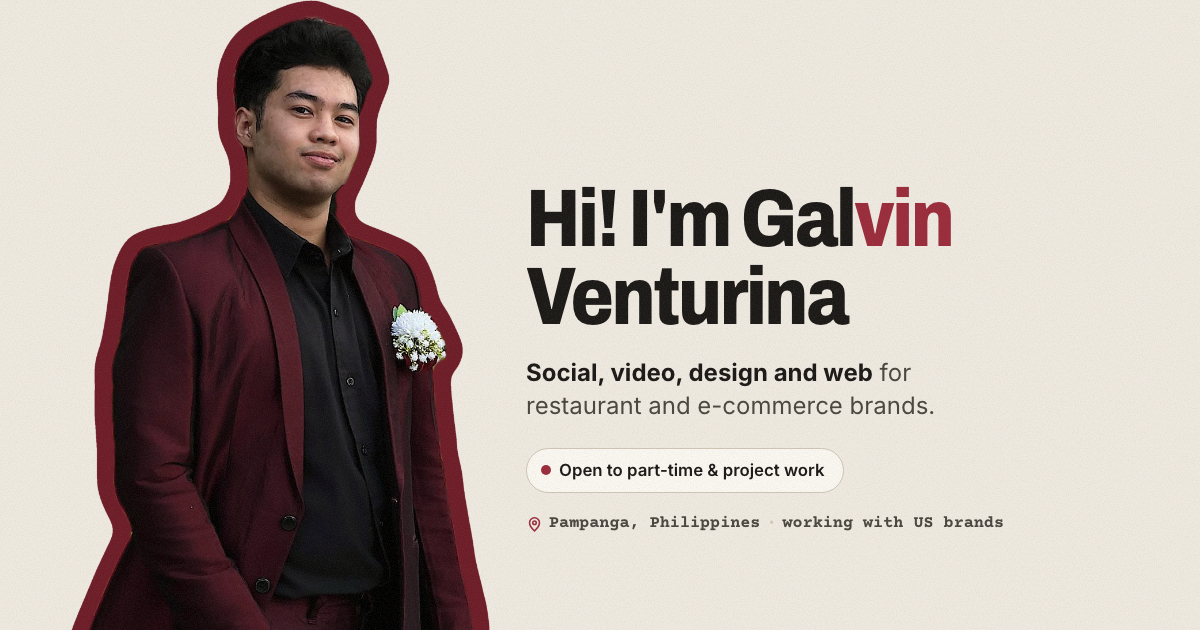
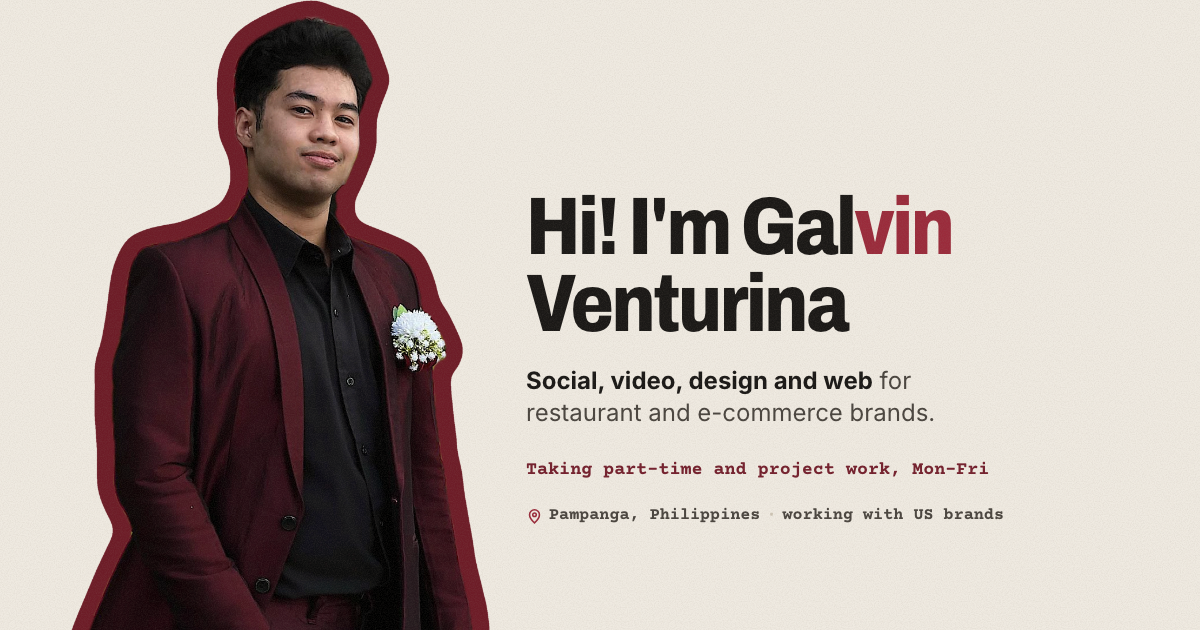
Drop the G tile, status pill and handwriting font
The header is now a plain masthead: name plus a typed
"Social · Video · Design · Web" line. Availability moves out of the
pulsing pill into a typed line under the location. Captions, notes,
the index card, badge and postcard use the typewriter and display
faces instead of Caveat. Favicon is a crop of the portrait, and the
link preview image is re-rendered to match.

diff --git a/styles.css b/styles.css
@@ -3,7 +3,7 @@
    Scrapbook look: warm paper, ink-black type, wine accent
    pulled from the burgundy suit in the portrait.
    Type: Archivo (display), Inter (body),
-   Courier Prime (typewriter labels), Caveat (handwritten notes).
+   Courier Prime (typewriter labels and captions).
    ========================================================== */
 
 :root {
@@ -25,7 +25,6 @@
   --f-display: "Archivo", "Arial Narrow", system-ui, sans-serif;
   --f-body: "Inter", system-ui, -apple-system, "Segoe UI", sans-serif;
   --f-type: "Courier Prime", "Courier New", ui-monospace, monospace;
-  --f-hand: "Caveat", "Bradley Hand", cursive;
 
   --wrap: 1200px;
   --gutter: clamp(16px, 4vw, 40px);
@@ -98,7 +97,8 @@ strong { font-weight: 700; color: var(--ink); }
   box-shadow: 1px 3px 3px rgba(30, 10, 10, .35);
 }
 
-.scribble { font-family: var(--f-hand); font-weight: 700; color: var(--wine-bright); line-height: 1; margin: 0; }
+/* small typed aside next to a block of work */
+.scribble { font-family: var(--f-type); font-weight: 700; font-size: .8rem; letter-spacing: .08em; text-transform: uppercase; color: var(--wine); line-height: 1.3; margin: 0; }
 
 .section-title { font-size: clamp(2.2rem, 4.8vw, 3.75rem); line-height: 1; margin-bottom: .45em; text-wrap: balance; }
 .lede { font-size: 1.12rem; color: var(--ink-2); max-width: 52ch; margin: 0; }
@@ -150,26 +150,18 @@ strong { font-weight: 700; color: var(--ink); }
 .site-header.scrolled { border-bottom-color: var(--line); }
 .header-row { display: flex; align-items: center; justify-content: space-between; height: 64px; }
 .wordmark {
-  display: inline-flex; align-items: center; gap: 10px;
-  font-family: var(--f-display); font-weight: 800; font-stretch: 88%; font-size: 1.05rem;
-  text-decoration: none; letter-spacing: -0.01em;
+  display: inline-flex; align-items: baseline; gap: 14px;
+  font-family: var(--f-display); font-weight: 900; font-stretch: 80%; font-size: 1.2rem;
+  text-transform: uppercase; text-decoration: none; letter-spacing: .01em;
 }
-.mark {
-  display: grid; place-items: center; width: 32px; height: 32px; border-radius: 7px;
-  background: var(--wine); color: var(--card);
-  font-weight: 900; font-size: 1.2rem; line-height: 1; transform: rotate(-6deg);
+.wordmark-role {
+  font-family: var(--f-type); font-weight: 700; font-stretch: normal; font-size: .76rem; letter-spacing: .06em;
+  color: var(--faint); padding-left: 14px; border-left: 1.5px solid var(--line);
 }
 .site-nav { display: flex; align-items: center; gap: clamp(16px, 3vw, 32px); font-size: .95rem; font-weight: 500; }
 .site-nav a { text-decoration: none; color: var(--ink-2); transition: color .2s; }
 .site-nav a:hover, .site-nav a[aria-current="page"] { color: var(--ink); }
 .site-nav .nav-contact { color: var(--ink); border-bottom: 2px solid var(--wine-bright); }
-.open-pill {
-  display: inline-flex; align-items: center; gap: 8px; padding: 4px 12px 4px 10px;
-  font-size: .8rem; font-weight: 600; color: var(--ink); background: var(--card);
-  border: 1.5px solid var(--line); border-radius: 999px;
-}
-.dot { width: 8px; height: 8px; border-radius: 50%; background: var(--wine-bright); box-shadow: 0 0 0 0 rgba(154, 43, 59, .5); animation: pulse 2.2s infinite; }
-@keyframes pulse { 70% { box-shadow: 0 0 0 7px rgba(154, 43, 59, 0); } 100% { box-shadow: 0 0 0 0 rgba(154, 43, 59, 0); } }
 
 /* ---------- Hero: scrapbook spread ---------- */
 .hero { padding-top: clamp(16px, 3vh, 36px); }
@@ -202,8 +194,7 @@ strong { font-weight: 700; color: var(--ink); }
 }
 .hero-where svg { width: 17px; height: 17px; fill: none; stroke: var(--wine-bright); stroke-width: 2.2; }
 .hero-where .sep { color: var(--line); }
-/* availability moves from the header into the hero once the nav gets tight */
-.hero-status { display: none; margin: 14px 0 0; }
+.hero-avail { margin: 6px 0 0 23px; font-family: var(--f-type); font-weight: 700; font-size: .85rem; color: var(--wine); }
 
 .hero-intro { max-width: 64ch; }
 .hero-intro p { font-size: .98rem; color: var(--ink-2); margin-bottom: .8em; }
@@ -233,7 +224,7 @@ strong { font-weight: 700; color: var(--ink); }
 
 /* polaroids of real posts */
 .polaroids { position: relative; z-index: 2; display: flex; align-items: flex-start; margin: 40px 0 0 clamp(-170px, -10vw, -40px); padding-right: 14px; }
-.polaroids-note { position: absolute; right: 2%; top: -30px; font-size: 1.45rem; transform: rotate(-3deg); }
+.polaroids-note { position: absolute; right: 16px; top: -26px; }
 .polaroid {
   position: relative; flex: 1 1 0; min-width: 0; max-width: 200px; margin-right: -14px;
   background: var(--card); padding: 9px 9px 0; box-shadow: var(--shadow);
@@ -244,7 +235,7 @@ strong { font-weight: 700; color: var(--ink); }
 .polaroid:nth-of-type(2) { margin-top: 18px; }
 .polaroid::before { top: -12px; left: 50%; translate: -50% 0; rotate: -4deg; width: 70px; height: 22px; }
 .polaroid img { width: 100%; height: auto; aspect-ratio: 4 / 5; object-fit: cover; background: var(--paper-2); }
-.polaroid-cap { display: block; text-align: center; font-family: var(--f-hand); font-weight: 700; font-size: 1.3rem; line-height: 1; padding: 9px 4px 12px; }
+.polaroid-cap { display: block; text-align: center; font-family: var(--f-type); font-weight: 700; font-size: .78rem; line-height: 1.2; padding: 10px 4px 12px; }
 .polaroid:hover, .polaroid:focus-visible { rotate: 0deg; scale: 1.05; z-index: 3; box-shadow: 0 2px 4px rgba(40, 28, 16, .14), 0 22px 40px -10px rgba(40, 28, 16, .35); }
 
 /* page-load: portrait rises, polaroids drop onto the page */
@@ -330,7 +321,7 @@ strong { font-weight: 700; color: var(--ink); }
 /* ---------- Work ---------- */
 .work { padding: clamp(80px, 12vh, 130px) 0 clamp(80px, 12vh, 140px); background-color: var(--paper); }
 .section-head-row { display: flex; justify-content: space-between; align-items: flex-end; gap: 24px; flex-wrap: wrap; margin-bottom: clamp(28px, 5vh, 48px); }
-.work-note { font-size: clamp(1.4rem, 2.4vw, 1.8rem); rotate: -3deg; margin-bottom: 18px; }
+.work-note { margin-bottom: 12px; }
 
 .case-no {
   font-family: var(--f-display); font-weight: 900; font-stretch: 75%;
@@ -414,7 +405,7 @@ strong { font-weight: 700; color: var(--ink); }
     repeating-linear-gradient(transparent 0 31px, rgba(74, 69, 63, .13) 31px 32px) 0 64px / 100% calc(100% - 64px) no-repeat,
     var(--card);
 }
-.index-card-title { font-family: var(--f-hand); font-weight: 700; font-size: 2.3rem; line-height: 1; color: var(--wine-bright); height: 46px; margin: 0 0 14px; }
+.index-card-title { font-family: var(--f-display); font-weight: 900; font-stretch: 85%; font-size: 1.7rem; line-height: 46px; letter-spacing: -0.02em; color: var(--wine); height: 46px; margin: 0 0 14px; }
 .index-card-title span { font-size: .6em; color: var(--faint); }
 .index-card ul { list-style: none; }
 .index-card li { position: relative; padding-left: 18px; font-family: var(--f-type); font-size: .92rem; line-height: 32px; color: var(--ink); }
@@ -446,8 +437,8 @@ strong { font-weight: 700; color: var(--ink); }
   margin: 20px 24px 4px; font-family: var(--f-display); font-weight: 900; font-stretch: 75%;
   font-size: clamp(3.4rem, 6vw, 4.5rem); line-height: .85; letter-spacing: -0.03em; text-transform: uppercase; color: var(--wine-bright);
 }
-.badge-team { margin: 0 24px 8px; font-family: var(--f-hand); font-weight: 700; font-size: 1.55rem; line-height: 1.1; color: var(--ink); }
-.badge-team span { font-size: .78em; color: var(--faint); }
+.badge-team { margin: 0 24px 8px; font-family: var(--f-display); font-weight: 800; font-stretch: 88%; font-size: 1.15rem; line-height: 1.3; color: var(--ink); }
+.badge-team span { font-family: var(--f-body); font-weight: 500; font-stretch: normal; font-size: .78em; color: var(--faint); }
 .build-stats { margin: 0 24px; }
 .build-stats div { display: grid; grid-template-columns: 3.2rem minmax(0, 1fr); gap: 14px; align-items: center; padding: 11px 0; border-top: 1.5px dashed var(--line); }
 .build-stats dt { font-family: var(--f-display); font-weight: 900; font-stretch: 80%; font-size: 2.3rem; line-height: 1; letter-spacing: -0.03em; }
@@ -500,7 +491,7 @@ strong { font-weight: 700; color: var(--ink); }
 .pc-lines { margin: 0; }
 .pc-lines div { display: grid; grid-template-columns: 3.4rem minmax(0, 1fr); align-items: baseline; gap: 8px; padding: 10px 0 6px; border-bottom: 1.5px solid var(--line); }
 .pc-lines dt { font-family: var(--f-type); font-weight: 700; font-size: .76rem; letter-spacing: .08em; text-transform: uppercase; color: var(--wine); }
-.pc-lines dd { margin: 0; font-family: var(--f-hand); font-weight: 700; font-size: 1.45rem; line-height: 1.15; overflow-wrap: anywhere; }
+.pc-lines dd { margin: 0; font-family: var(--f-type); font-size: 1rem; line-height: 1.35; overflow-wrap: anywhere; }
 .pc-lines a { text-decoration: none; color: var(--ink); }
 .pc-lines a:hover { color: var(--wine-bright); }
 
@@ -523,8 +514,7 @@ strong { font-weight: 700; color: var(--ink); }
   .terms { grid-template-columns: 1fr; max-width: 560px; }
 }
 @media (max-width: 900px) {
-  .open-pill { display: none; }
-  .hero-status { display: inline-flex; }
+  .wordmark-role { display: none; }
 
   /* hero stacks: name, photo, then the rest */
   .hero-grid { grid-template-columns: 1fr; gap: 0; }
@@ -550,11 +540,11 @@ strong { font-weight: 700; color: var(--ink); }
 @media (max-width: 560px) {
   body { font-size: 1rem; }
   .site-nav { gap: 16px; font-size: .9rem; }
-  .wordmark { font-size: 0; gap: 0; } /* just the G mark on small phones */
+  .wordmark { font-size: 1.02rem; }
+  .hero-avail { margin-left: 0; }
   .info { grid-template-columns: 1fr; gap: 24px; }
   .polaroid { padding: 6px 6px 0; margin-right: -10px; }
-  .polaroid-cap { font-size: 1.05rem; padding: 7px 2px 9px; }
-  .polaroids-note { font-size: 1.2rem; top: -28px; }
+  .polaroid-cap { font-size: .66rem; padding: 7px 2px 9px; }
   .notes { grid-template-columns: 1fr; gap: 36px; }
   .note:nth-child(even) { margin-top: 0; }
   .pinboard { gap: 10px; padding: 18px 12px; }

diff --git a/index.html b/index.html
@@ -19,15 +19,14 @@
   <meta property="og:image:alt" content="Galvin Venturina in a burgundy suit, next to the line: social, video, design and web for restaurant and e-commerce brands">
   <meta name="twitter:card" content="summary_large_image">
 
-  <link rel="icon" href="assets/favicon.svg" type="image/svg+xml">
   <link rel="icon" href="assets/favicon-32.png" sizes="32x32" type="image/png">
   <link rel="apple-touch-icon" href="assets/apple-touch-icon.png">
 
   <link rel="preconnect" href="https://fonts.googleapis.com">
   <link rel="preconnect" href="https://fonts.gstatic.com" crossorigin>
-  <link href="https://fonts.googleapis.com/css2?family=Archivo:wdth,wght@75..100,500..900&family=Caveat:wght@500;700&family=Courier+Prime:wght@400;700&family=Inter:wght@400;500;600;700&display=swap" rel="stylesheet">
+  <link href="https://fonts.googleapis.com/css2?family=Archivo:wdth,wght@75..100,500..900&family=Courier+Prime:wght@400;700&family=Inter:wght@400;500;600;700&display=swap" rel="stylesheet">
   <link rel="preload" as="image" href="assets/me/portrait-cutout.webp" type="image/webp">
-  <link rel="stylesheet" href="styles.css?v=20261125c">
+  <link rel="stylesheet" href="styles.css?v=20261125d">
 </head>
 <body>
 
@@ -35,9 +34,8 @@
 
   <header class="site-header">
     <div class="wrap header-row">
-      <a href="#top" class="wordmark"><span class="mark" aria-hidden="true">G</span>Galvin Venturina</a>
+      <a href="#top" class="wordmark">Galvin Venturina<span class="wordmark-role">Social · Video · Design · Web</span></a>
       <nav class="site-nav" aria-label="Main">
-        <span class="open-pill"><span class="dot" aria-hidden="true"></span>Open to part‑time &amp; project work</span>
         <a href="#work">Work</a>
         <a href="resume.html">Resume</a>
         <a href="#contact" class="nav-contact">Contact</a>
@@ -66,7 +64,7 @@
               <svg viewBox="0 0 24 24" aria-hidden="true"><path d="M12 21s-7-6.2-7-11.5a7 7 0 0 1 14 0C19 14.8 12 21 12 21z"/><circle cx="12" cy="9.5" r="2.5"/></svg>
               Pampanga, Philippines <span class="sep" aria-hidden="true">·</span> working with US brands
             </p>
-            <p class="open-pill hero-status"><span class="dot" aria-hidden="true"></span>Open to part‑time &amp; project work</p>
+            <p class="hero-avail">Taking part‑time and project work, Mon&#8288;–&#8288;Fri</p>
           </div>
 
           <div class="hero-intro">
@@ -358,6 +356,6 @@
     </div>
   </footer>
 
-  <script src="script.js?v=20261125c"></script>
+  <script src="script.js?v=20261125d"></script>
 </body>
 </html>

diff --git a/resume.html b/resume.html
@@ -15,21 +15,19 @@
   <meta property="og:image:width" content="1200">
   <meta property="og:image:height" content="630">
   <meta name="twitter:card" content="summary_large_image">
-  <link rel="icon" href="assets/favicon.svg" type="image/svg+xml">
   <link rel="icon" href="assets/favicon-32.png" sizes="32x32" type="image/png">
   <link rel="apple-touch-icon" href="assets/apple-touch-icon.png">
   <link rel="preconnect" href="https://fonts.googleapis.com">
   <link rel="preconnect" href="https://fonts.gstatic.com" crossorigin>
-  <link href="https://fonts.googleapis.com/css2?family=Archivo:wdth,wght@75..100,500..900&family=Caveat:wght@500;700&family=Courier+Prime:wght@400;700&family=Inter:wght@400;500;600;700&display=swap" rel="stylesheet">
-  <link rel="stylesheet" href="styles.css?v=20261125c">
+  <link href="https://fonts.googleapis.com/css2?family=Archivo:wdth,wght@75..100,500..900&family=Courier+Prime:wght@400;700&family=Inter:wght@400;500;600;700&display=swap" rel="stylesheet">
+  <link rel="stylesheet" href="styles.css?v=20261125d">
 </head>
 <body>
 
   <header class="site-header">
     <div class="wrap header-row">
-      <a href="index.html" class="wordmark"><span class="mark" aria-hidden="true">G</span>Galvin Venturina</a>
+      <a href="index.html" class="wordmark">Galvin Venturina<span class="wordmark-role">Social · Video · Design · Web</span></a>
       <nav class="site-nav" aria-label="Main">
-        <span class="open-pill"><span class="dot" aria-hidden="true"></span>Open to work</span>
         <a href="index.html#work">Work</a>
         <a href="resume.html" aria-current="page">Resume</a>
         <a href="index.html#contact" class="nav-contact">Contact</a>
